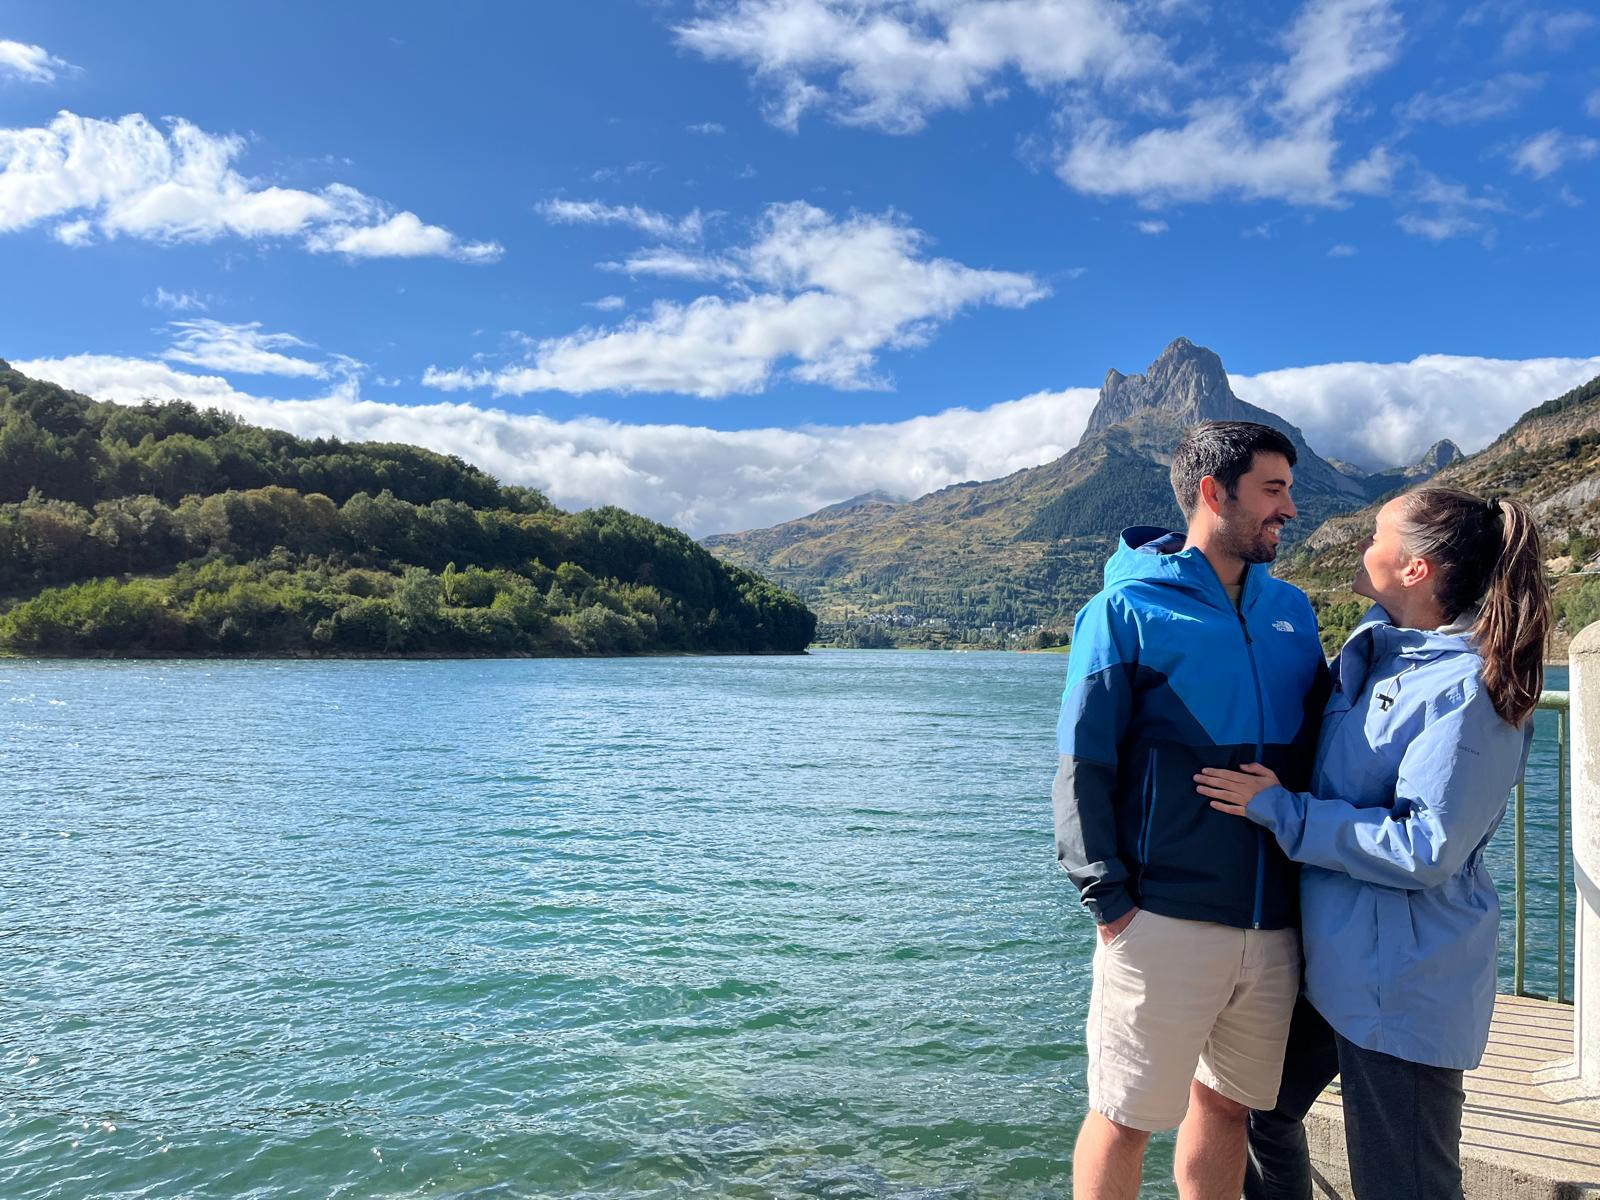
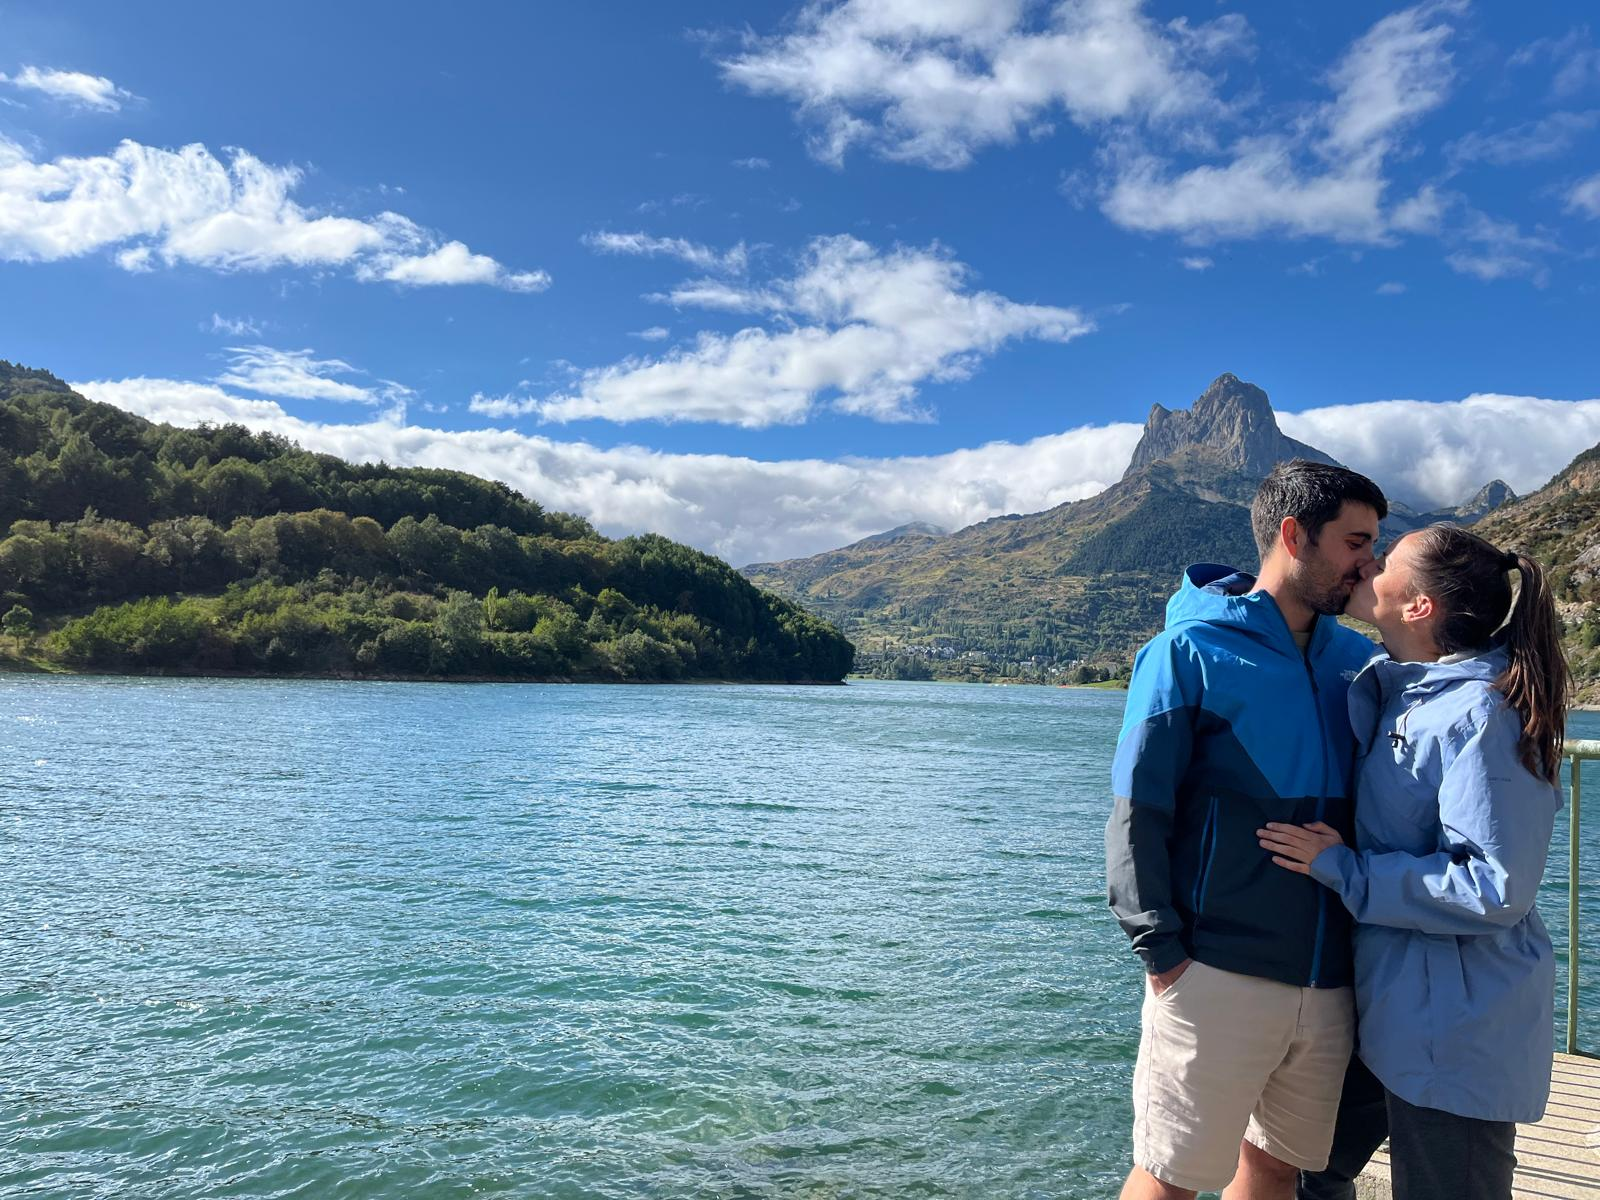
Fondo pie de web

diff --git a/style.css b/style.css
@@ -438,7 +438,7 @@ footer {
   font-size: 1.6rem;
   background-image:
     linear-gradient(rgba(77, 90, 56, 0.62), rgba(77, 90, 56, 0.62)),
-    url('images/fondo_pie.jpeg');
+    url('images/fondo_pie_4.jpeg');
   background-size: cover;
   /* El 78% horizontal solo actúa en pantallas estrechas, donde la foto
      sobra por los lados: sin él, el recorte deja a Sandra fuera de cuadro.
